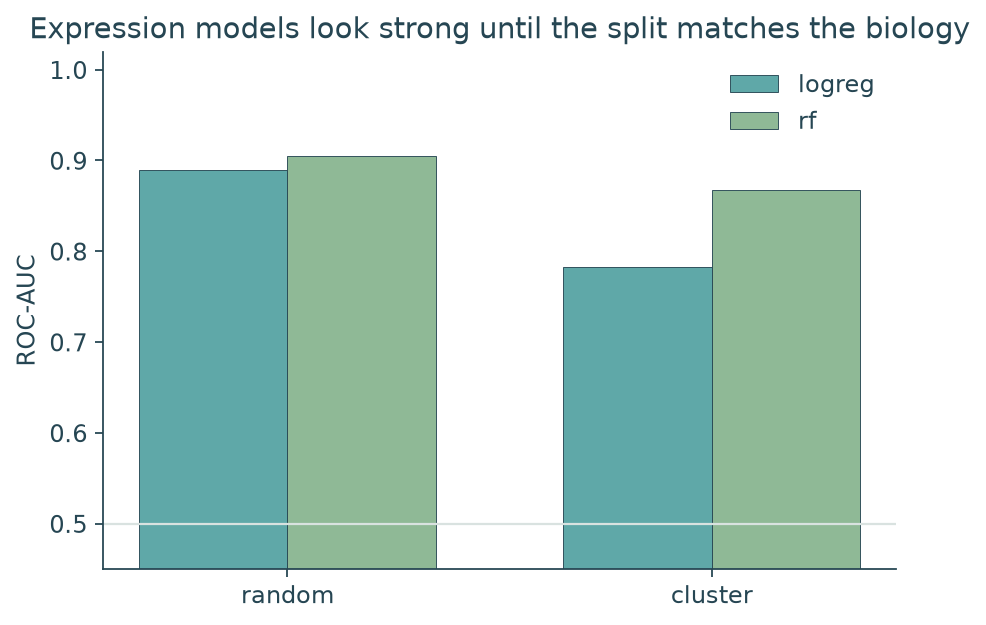
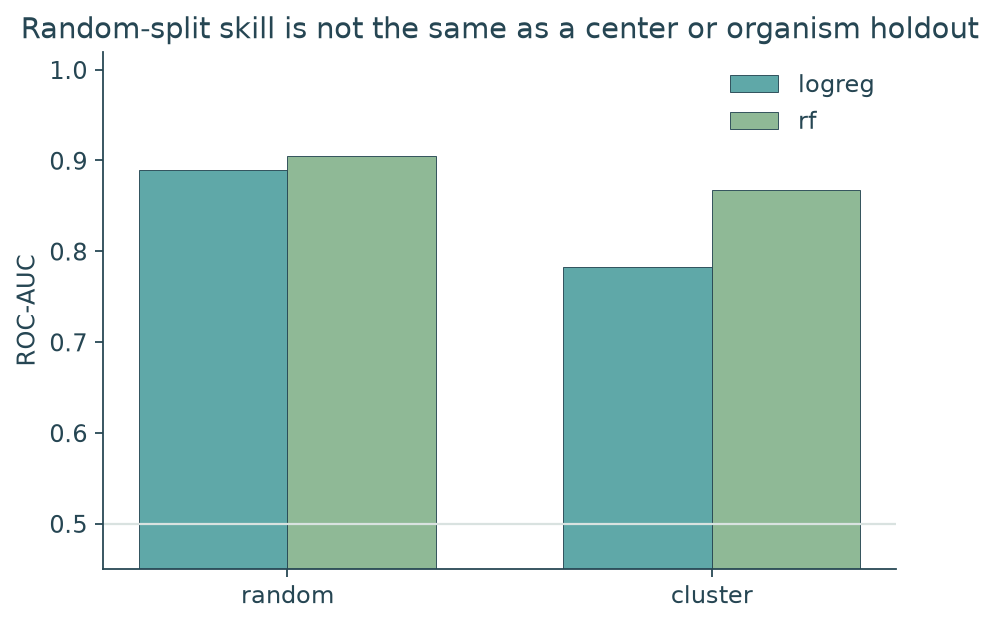
add run1 outputs

diff --git a/src/mpatlas/wrap.py b/src/mpatlas/wrap.py
@@ -35,7 +35,6 @@ def wrap_score(seq: str, topo: Topology | None = None, feat: FeatureRow | None =
         reasons.append(f"tm_frac={feat.tm_frac:.2f}")
 
     fusible = feat.n_term_extra > 0.5 or feat.c_term_extra > 0.5 or not feat.n_tm
-    # cytoplasmic termini are also fusion-able for WRAP (cytoplasmic expression)
     n_term_kind = topo.segments[0].kind if topo.segments else "unknown"
     c_term_kind = topo.segments[-1].kind if topo.segments else "unknown"
     if n_term_kind in {"cyto", "extra"} or c_term_kind in {"cyto", "extra"}:

diff --git a/demo/outputs/gate0.md b/demo/outputs/gate0.md
@@ -1,0 +1,30 @@
+# Gate 0 census
+
+| Source | n | with sequence |
+|---|---:|---:|
+| curnow | 2176 | 2176 |
+| curnow_unlabelled | 0 | 0 |
+| gfp | 0 | 0 |
+| uniprot | 0 | 0 |
+| mpstruc | 0 | 0 |
+| pdbtm | 0 | 0 |
+| topdb | 0 | 0 |
+| targettrack | 0 | 0 |
+| purificationdb | 0 | 0 |
+
+## B (TargetTrack)
+- cloned 0, expressed 0, purified 0
+- funnel: {'selected': 0, 'cloned': 0, 'expressed': 0, 'soluble': 0, 'purified': 0, 'in pdb': 0}
+- claim B: **False**
+
+## B-conditions (PurificationDB)
+- n 0, TM slice 0, detergent rows 0
+
+## C
+- PDB ids 0, Swiss-Prot TM 0, join positives 0
+
+## Stop
+- B: census_only
+- B-conditions: lookup_only
+- C: census_only
+- A: fit_local
